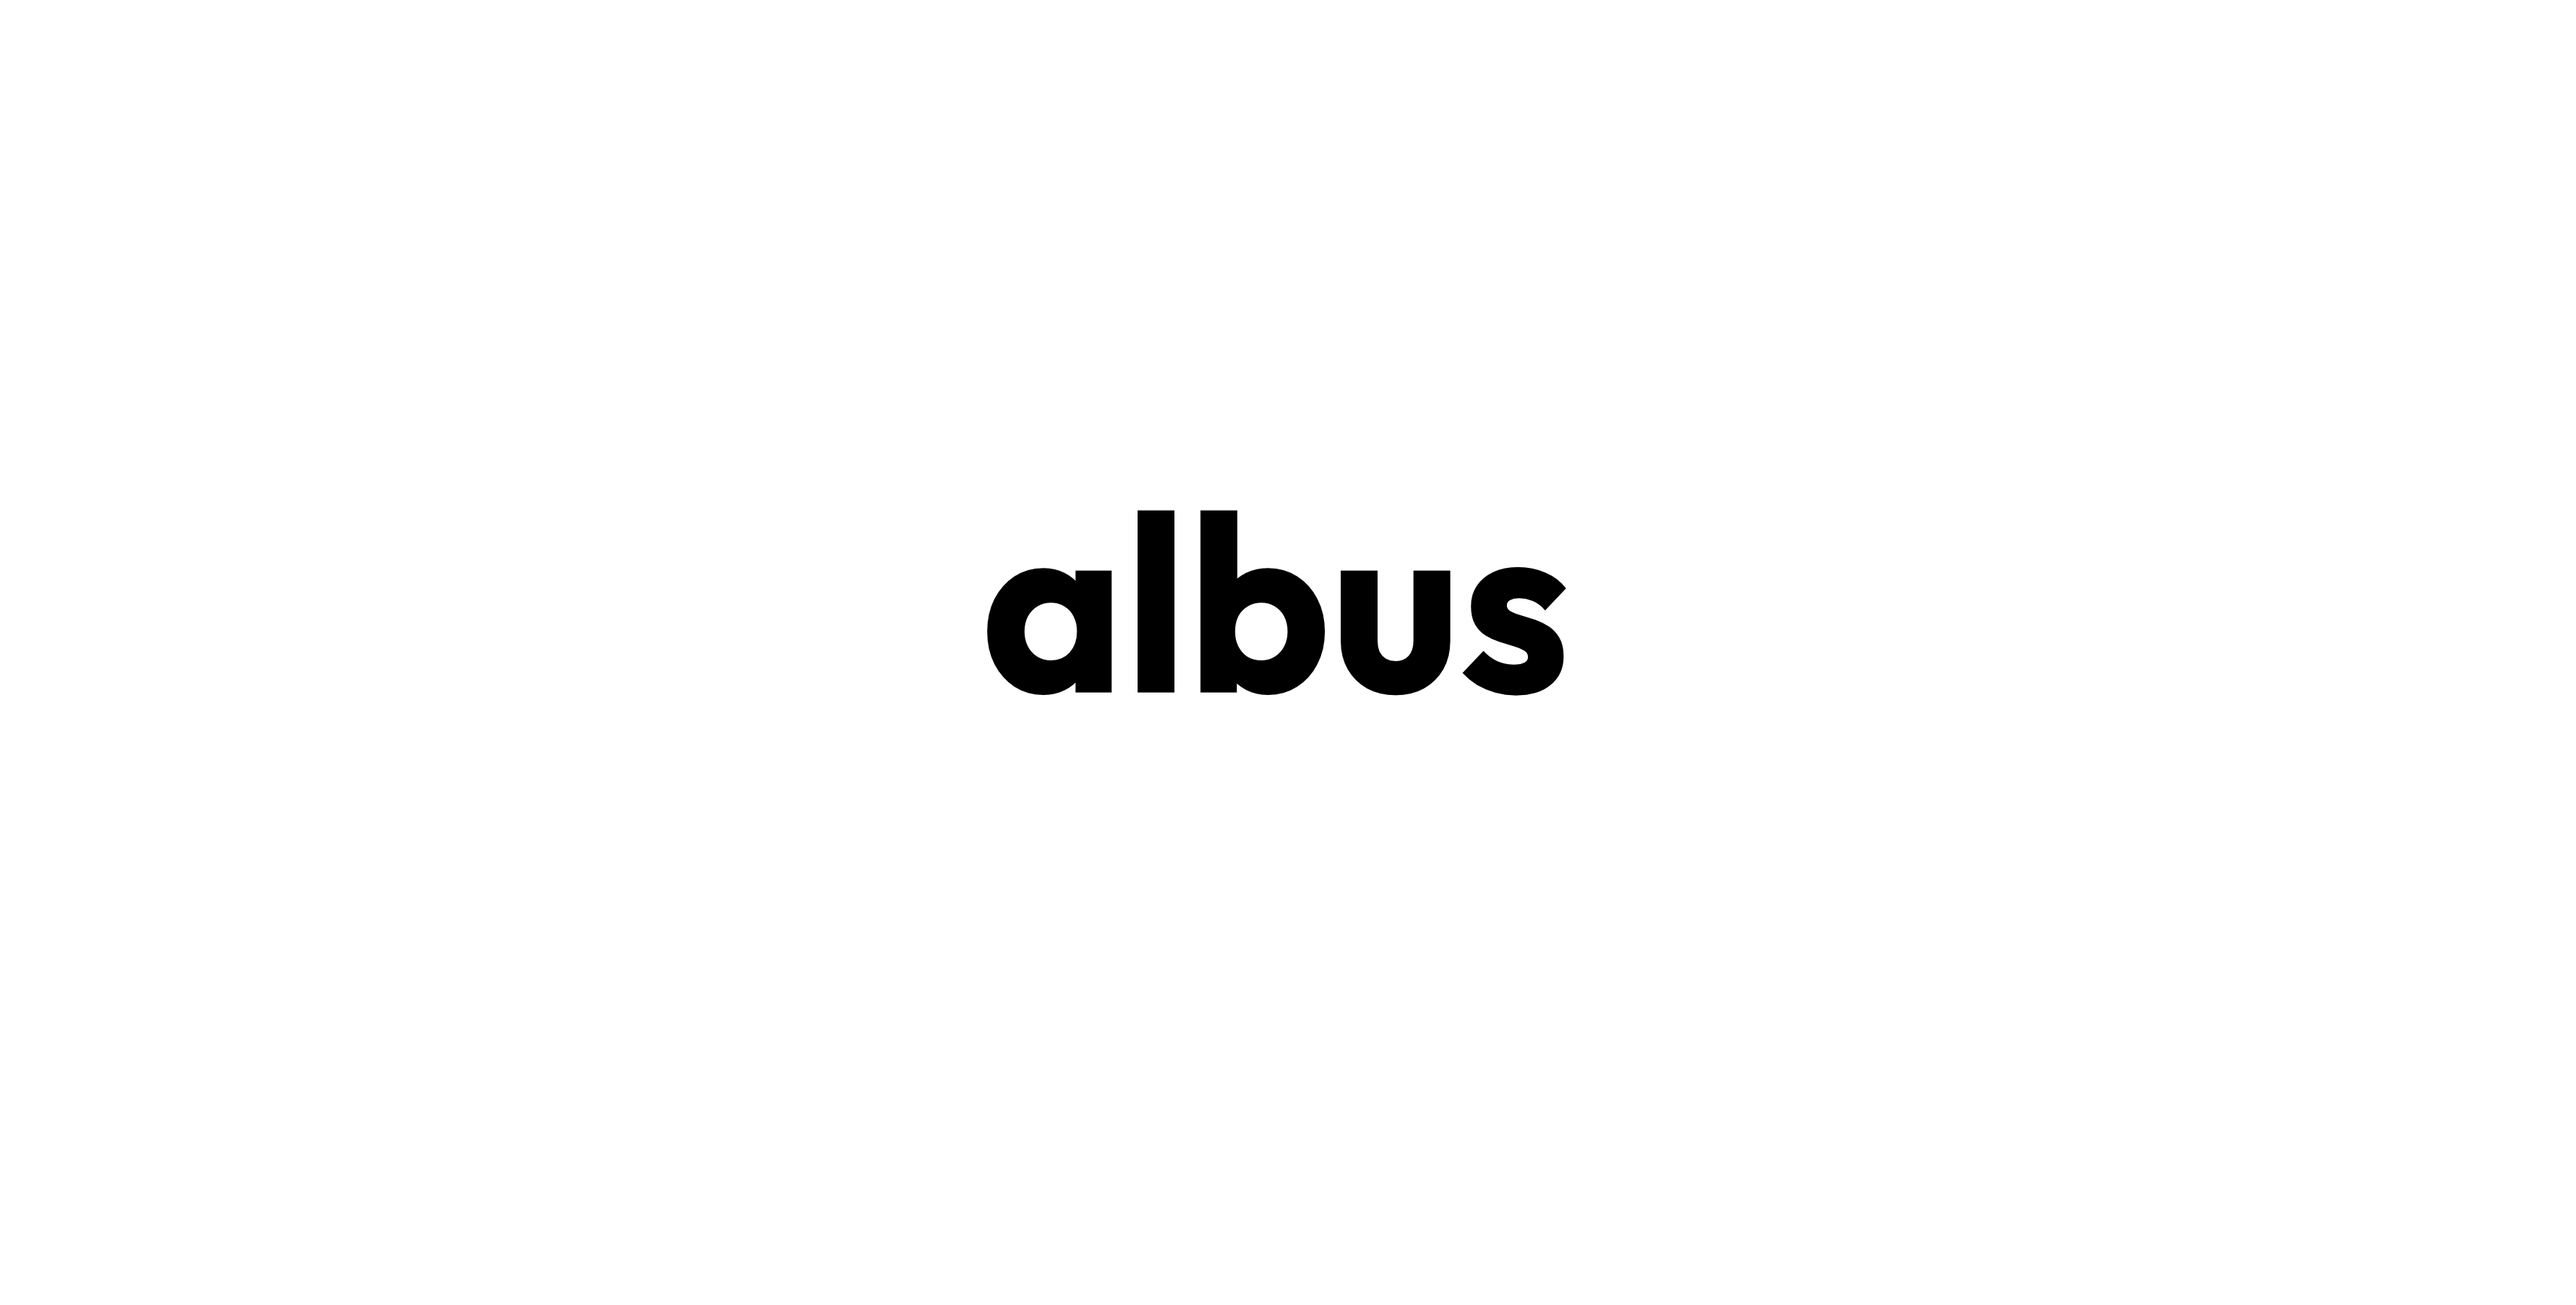
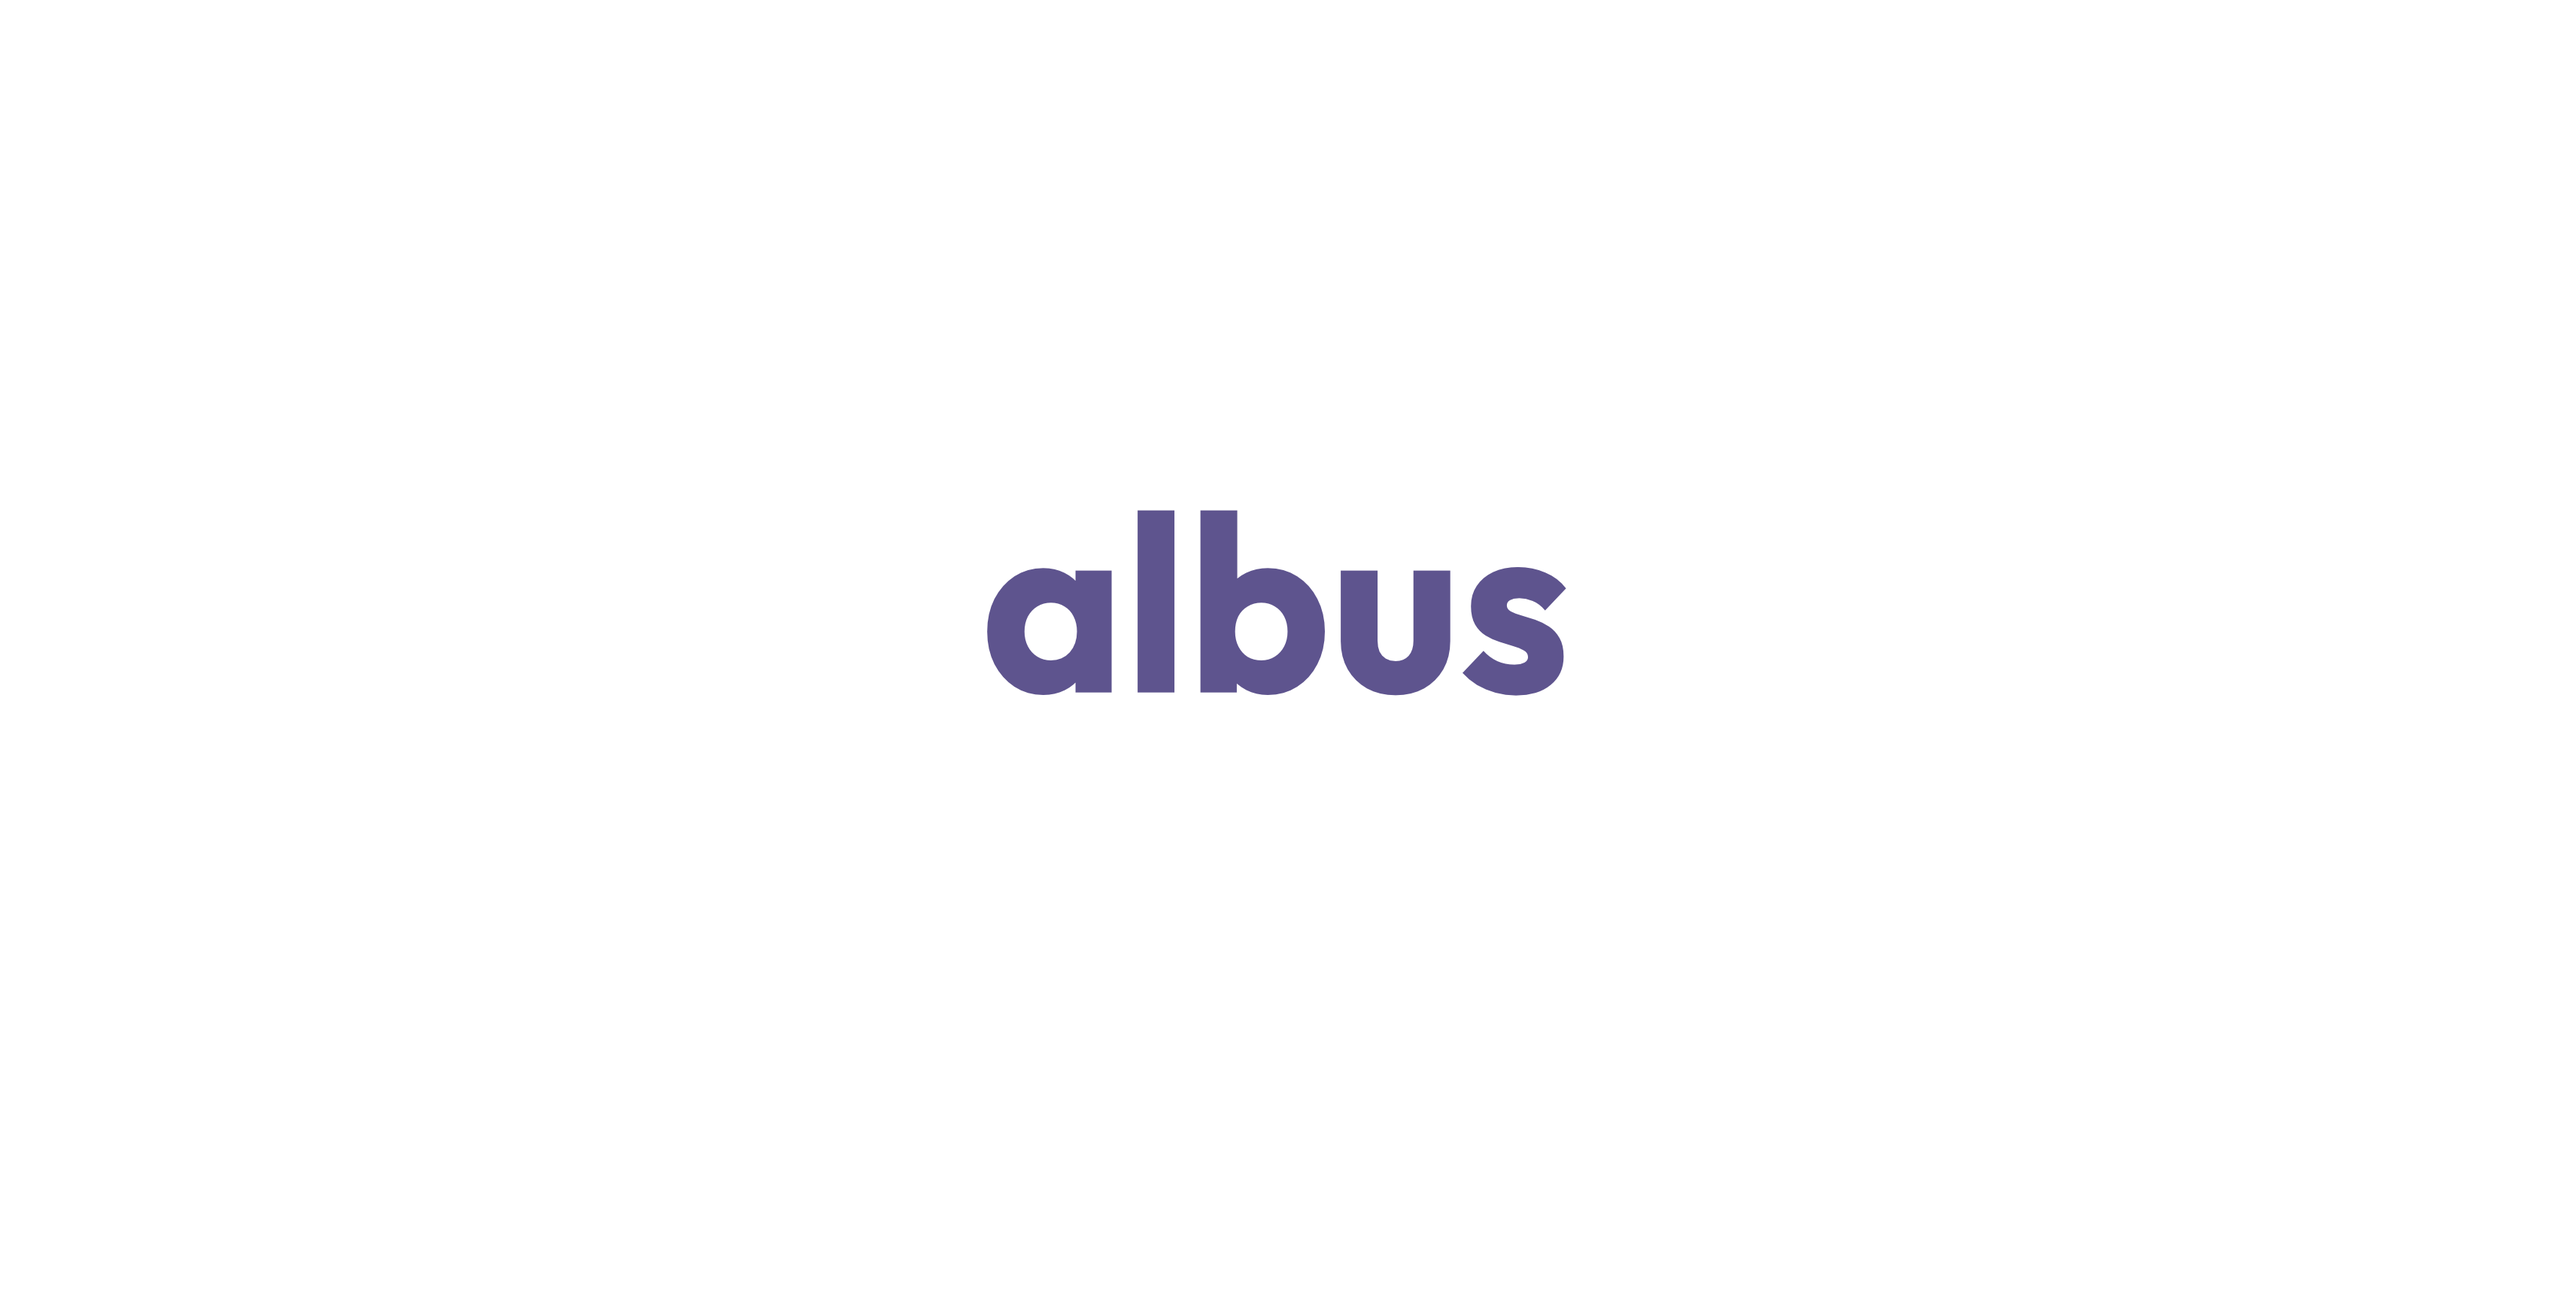
changed the theme color

Changed region(s): [[0.375, 0.3735, 0.625, 0.5291]]

diff --git a/lib/themes/theme_helper.dart b/lib/themes/theme_helper.dart
@@ -81,9 +81,9 @@ class TextThemes {
 
 class ColorSchemes {
   static const lightCodeColorScheme = ColorScheme.light(
-    primary: Color(0xFF000000),
-    onPrimary: Color.fromARGB(255, 0, 0, 0),
-    onPrimaryContainer: Color(0x4C000000),
+    primary: Color(0xFF5E548E),
+    onPrimary: Color(0xFF131313),
+    //onPrimaryContainer: Color(0x4C000000),
   );
 }
 

diff --git a/lib/themes/custom_button_style.dart b/lib/themes/custom_button_style.dart
@@ -9,7 +9,7 @@ class CustomButtonStyles {
     elevation: WidgetStateProperty.all<double>(0)
   );
   static ButtonStyle get fillBlack => ElevatedButton.styleFrom(
-    backgroundColor: appTheme.black900,
+    backgroundColor: theme.colorScheme.primary,
     shape: RoundedRectangleBorder(
       borderRadius: BorderRadius.circular(26.h),
     ),
